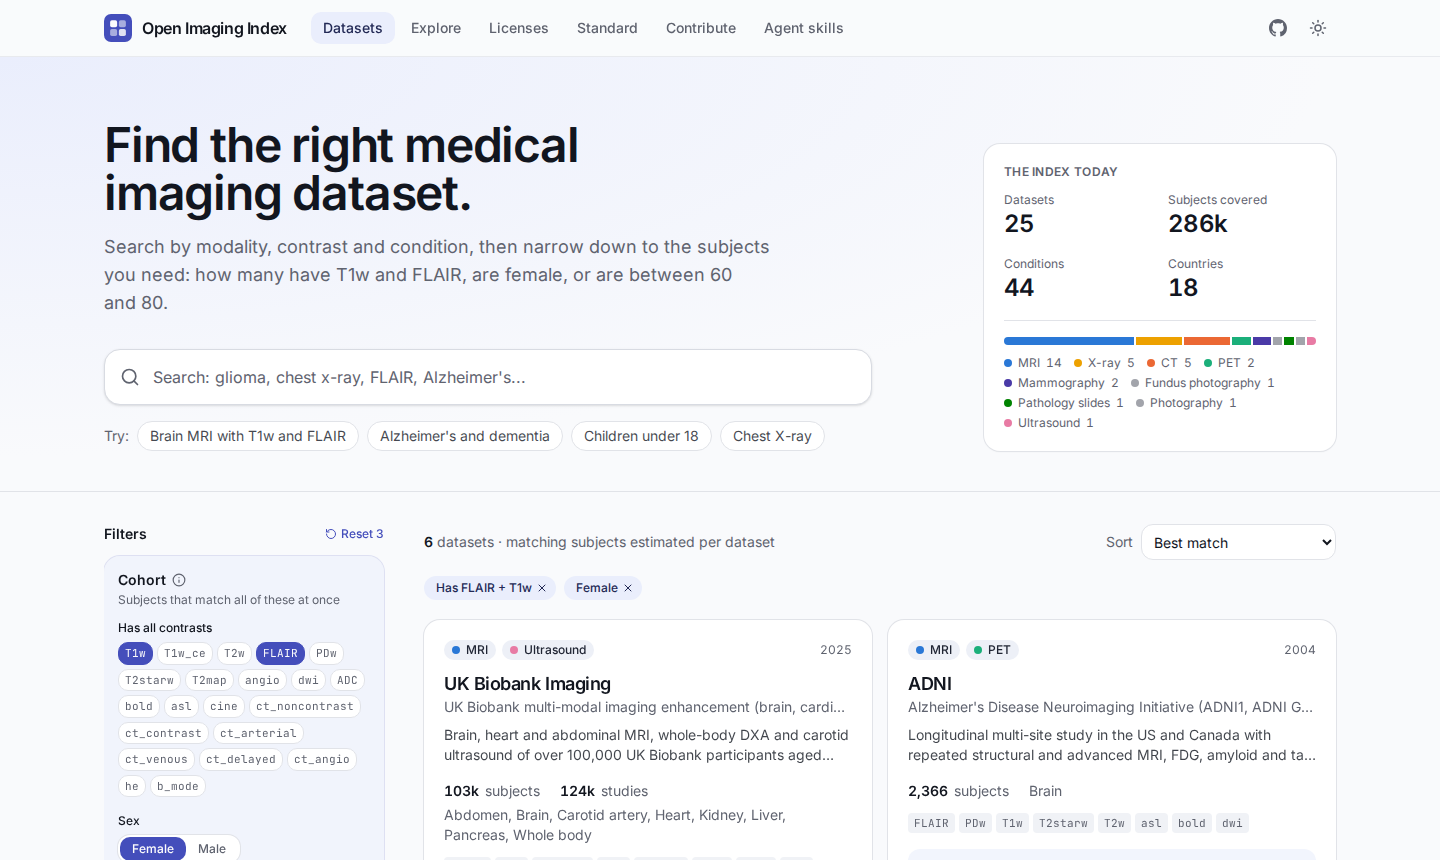
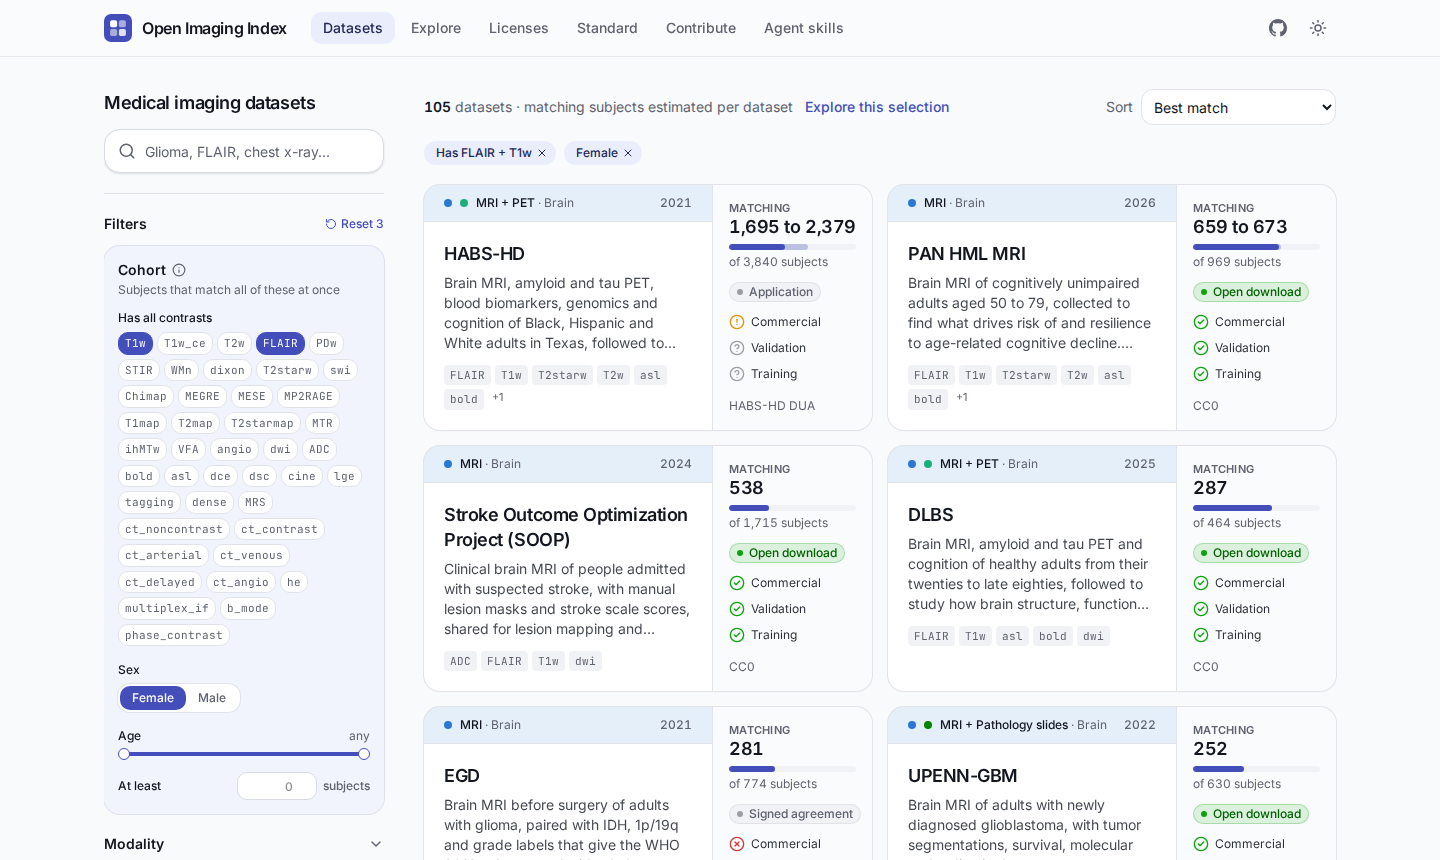
Catalog: drop the landing header, put the search at the top of the filter column

diff --git a/src/routes/+page.svelte b/src/routes/+page.svelte
@@ -23,7 +23,7 @@
     type FilterState,
     type Sort
   } from '#lib/catalog/filter.js';
-  import { compact, label, modalityColor } from '#lib/catalog/vocab.js';
+  import { label } from '#lib/catalog/vocab.js';
   import type { DatasetSummary } from '#lib/catalog/types.js';
   import { SITE_NAME, SITE_TAGLINE, SITE_URL, link } from '#lib/site.js';
   import { cn } from '#lib/utils.js';
@@ -157,16 +157,6 @@
 
   let sheetOpen = $state(false);
   const reset = () => (filters = { ...emptyFilters(), q: filters.q });
-
-  const examples = [
-    { text: 'Brain MRI with T1w and FLAIR', query: '?modality=MR&anatomy=brain&contrasts=FLAIR,T1w' },
-    { text: "Alzheimer's and dementia", query: '?condition=dementia' },
-    { text: 'Children under 18', query: '?age=0-17' },
-    { text: 'Chest X-ray', query: '?modality=DX&anatomy=chest' }
-  ];
-  function applyExample(query: string) {
-    filters = fromQuery(query);
-  }
 </script>
 
 <Seo
@@ -183,88 +173,26 @@
   }}
 />
 
-<section class="border-b border-border bg-[radial-gradient(ellipse_at_top_left,var(--accent),transparent_65%)]">
-  <div
-    class="mx-auto grid max-w-7xl grid-cols-1 gap-10 px-4 pt-12 pb-10 md:px-6 md:pt-16 lg:grid-cols-[minmax(0,1fr)_22rem] lg:items-end"
-  >
-    <div>
-      <h1 class="text-4xl font-semibold tracking-tight text-balance md:text-5xl">
-        Find the right medical imaging dataset.
-      </h1>
-      <p class="mt-4 max-w-2xl text-lg text-pretty text-muted-foreground">
-        Search by modality, contrast and condition, then narrow down to the subjects you need: how many have T1w and
-        FLAIR, are female, or are between 60 and 80.
-      </p>
-
-      <label class="relative mt-8 block max-w-3xl">
-        <span class="sr-only">Search datasets</span>
-        <Search class="pointer-events-none absolute top-1/2 left-4 size-5 -translate-y-1/2 text-muted-foreground" />
-        <input
-          type="search"
-          bind:value={filters.q}
-          placeholder="Search: glioma, chest x-ray, FLAIR, Alzheimer's..."
-          class="h-14 w-full rounded-2xl border border-input bg-card pr-4 pl-12 text-base shadow-sm transition-shadow outline-none placeholder:text-muted-foreground focus:border-primary/50 focus:ring-4 focus:ring-primary/15"
-        />
-      </label>
-
-      <div class="mt-4 flex flex-wrap items-center gap-2 text-sm">
-        <span class="text-muted-foreground">Try:</span>
-        {#each examples as ex (ex.text)}
-          <button
-            type="button"
-            class="rounded-full border border-border bg-card px-3 py-1 text-foreground/80 transition-colors hover:border-primary/40 hover:text-foreground"
-            onclick={() => applyExample(ex.query)}>{ex.text}</button
-          >
-        {/each}
-      </div>
-    </div>
-
-    <div class="surface p-5">
-      <h2 class="text-xs font-semibold tracking-wide text-muted-foreground uppercase">The index today</h2>
-      <dl class="mt-3 grid grid-cols-2 gap-x-4 gap-y-4">
-        <div>
-          <dt class="text-xs text-muted-foreground">Datasets</dt>
-          <dd class="text-2xl font-semibold tracking-tight tabular">{ov.count}</dd>
-        </div>
-        <div>
-          <dt class="text-xs text-muted-foreground">Subjects covered</dt>
-          <dd class="text-2xl font-semibold tracking-tight tabular">{compact(ov.subjects)}</dd>
-        </div>
-        <div>
-          <dt class="text-xs text-muted-foreground">Conditions</dt>
-          <dd class="text-2xl font-semibold tracking-tight tabular">{ov.conditions}</dd>
-        </div>
-        <div>
-          <dt class="text-xs text-muted-foreground">Countries</dt>
-          <dd class="text-2xl font-semibold tracking-tight tabular">{ov.countries}</dd>
-        </div>
-      </dl>
-      <div class="mt-4 border-t border-border pt-4">
-        <div class="flex h-2 gap-[2px] overflow-hidden rounded-[4px]" aria-hidden="true">
-          {#each ov.modalityMix as m (m.id)}
-            <div class="h-full w-(--w) bg-(--c)" style="--w: {m.share}%; --c: {modalityColor(m.id)}"></div>
-          {/each}
-        </div>
-        <ul class="mt-2.5 flex flex-wrap gap-x-3 gap-y-1 text-xs text-muted-foreground">
-          {#each ov.modalityMix as m (m.id)}
-            <li class="flex items-center gap-1.5">
-              <span class="size-2 rounded-full bg-(--c)" style="--c: {modalityColor(m.id)}"></span>{label(
-                vocab,
-                'modality',
-                m.id
-              )}
-              <span class="tabular">{m.count}</span>
-            </li>
-          {/each}
-        </ul>
-      </div>
-    </div>
-  </div>
-</section>
+{#snippet searchBox()}
+  <label class="relative block">
+    <span class="sr-only">Search datasets</span>
+    <Search class="pointer-events-none absolute top-1/2 left-3.5 size-4.5 -translate-y-1/2 text-muted-foreground" />
+    <input
+      type="search"
+      bind:value={filters.q}
+      placeholder="Glioma, FLAIR, chest x-ray..."
+      class="h-11 w-full rounded-xl border border-input bg-card pr-3 pl-10 text-sm shadow-sm transition-shadow outline-none placeholder:text-muted-foreground focus:border-primary/50 focus:ring-4 focus:ring-primary/15"
+    />
+  </label>
+{/snippet}
 
 <div class="mx-auto grid max-w-7xl grid-cols-1 gap-8 px-4 pt-8 md:px-6 lg:grid-cols-[18rem_minmax(0,1fr)]">
+  <!-- The search heads the filter column, which stays in view while the results scroll. -->
   <aside class="hidden lg:block">
     <div class="sticky top-20 max-h-[calc(100vh-6rem)] overflow-y-auto pr-2 pb-8">
+      <p class="text-lg font-semibold tracking-tight" aria-hidden="true">Medical imaging datasets</p>
+      <div class="mt-3">{@render searchBox()}</div>
+      <div class="my-5 border-t border-border"></div>
       <FilterPanel
         bind:filters
         {vocab}
@@ -279,6 +207,11 @@
   </aside>
 
   <section aria-label="Results" class="min-w-0">
+    <!-- One h1 for the page: visible on phones, where the filter column is hidden, and for screen readers on desktop. -->
+    <div class="mb-4 lg:mb-0">
+      <h1 class="mb-3 text-xl font-semibold tracking-tight lg:sr-only">Medical imaging datasets</h1>
+      <div class="lg:hidden">{@render searchBox()}</div>
+    </div>
     <div class="flex flex-wrap items-center gap-3">
       <Sheet.Root bind:open={sheetOpen}>
         <Sheet.Trigger

diff --git a/src/lib/server/overview.ts b/src/lib/server/overview.ts
@@ -4,18 +4,8 @@ import type { DatasetSummary, VocabData } from '#lib/catalog/types.js';
 /** Datasets rendered into the catalog HTML. The rest arrive with summaries.json. */
 export const INITIAL_CARDS = 12;
 
-/** Small catalog-wide numbers and filter options, so the page is complete before summaries.json loads. */
+/** The dataset count and filter options, so the page is complete before summaries.json loads. */
 export function overview(datasets: DatasetSummary[], vocab: VocabData) {
-  const modality = new Map<string, number>();
-  for (const d of datasets) {
-    // Narrower modalities (computed radiography) count under their parent (X-ray), once per dataset.
-    const top = new Set(
-      (d.facets.modality ?? []).map((m) => vocab.terms.modality?.find((t) => t.id === m)?.parent ?? m)
-    );
-    for (const m of top) modality.set(m, (modality.get(m) ?? 0) + 1);
-  }
-  const sum = [...modality.values()].reduce((a, b) => a + b, 0) || 1;
-
   const contrasts = new Map<string, number>();
   for (const d of datasets) for (const c of d.facets.contrast ?? []) contrasts.set(c, (contrasts.get(c) ?? 0) + 1);
   const order = (vocab.terms.contrast ?? []).map((t) => t.id);
@@ -25,12 +15,6 @@ export function overview(datasets: DatasetSummary[], vocab: VocabData) {
 
   return {
     count: datasets.length,
-    subjects: datasets.reduce((s, d) => s + (d.totals.subjects ?? 0), 0),
-    conditions: new Set(datasets.flatMap((d) => (d.facets.condition ?? []).filter((c) => c !== 'healthy'))).size,
-    countries: new Set(datasets.flatMap((d) => d.facets.country ?? [])).size,
-    modalityMix: [...modality]
-      .map(([id, count]) => ({ id, count, share: (count / sum) * 100 }))
-      .sort((a, b) => b.count - a.count),
     contrastOptions: [...contrasts]
       .map(([id, count]) => ({ id, count }))
       .sort((a, b) => order.indexOf(a.id) - order.indexOf(b.id)),

diff --git a/e2e/site.spec.ts b/e2e/site.spec.ts
@@ -4,7 +4,7 @@ test('catalog filters by cohort and keeps the filters in the URL', async ({ page
   const errors: string[] = [];
   page.on('pageerror', (e) => errors.push(e.message));
   await page.goto('/');
-  await expect(page.getByRole('heading', { level: 1 })).toContainText('Find the right medical imaging dataset');
+  await expect(page.getByRole('heading', { level: 1 })).toContainText('Medical imaging datasets');
   // The prerendered page shows only the first datasets, so take the total from the result count.
   const all = Number(await page.locator('[aria-live=polite] .tabular').innerText());
   expect(all).toBeGreaterThan(5);
